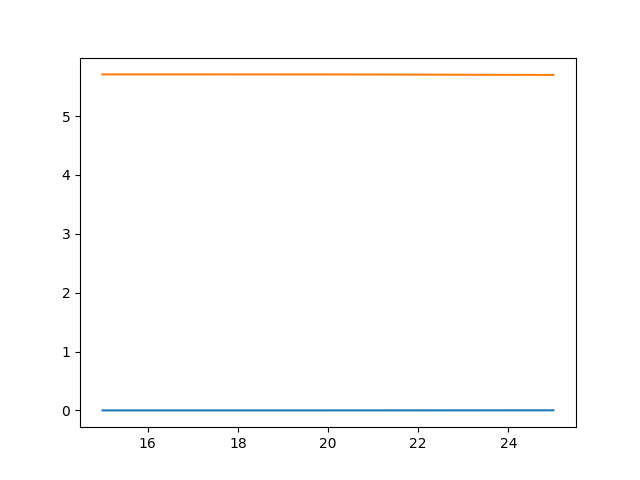
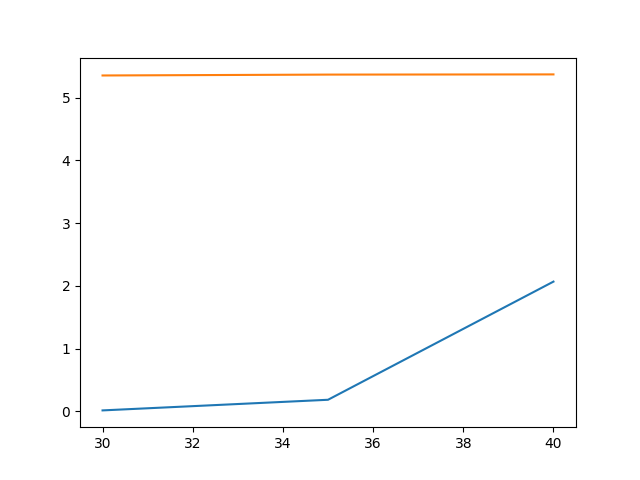
Really Really done

diff --git a/MA4_2.py b/MA4_2.py
@@ -30,7 +30,7 @@ def main():
 	time_c2 = time.perf_counter()
 	print("time c++: ", time_c2-time_c1)
 	
-	n_list = [15,20,25]
+	n_list = [30,35,40]
 	py_times = []
 	cplusplus_times = []
 	for i in n_list:
